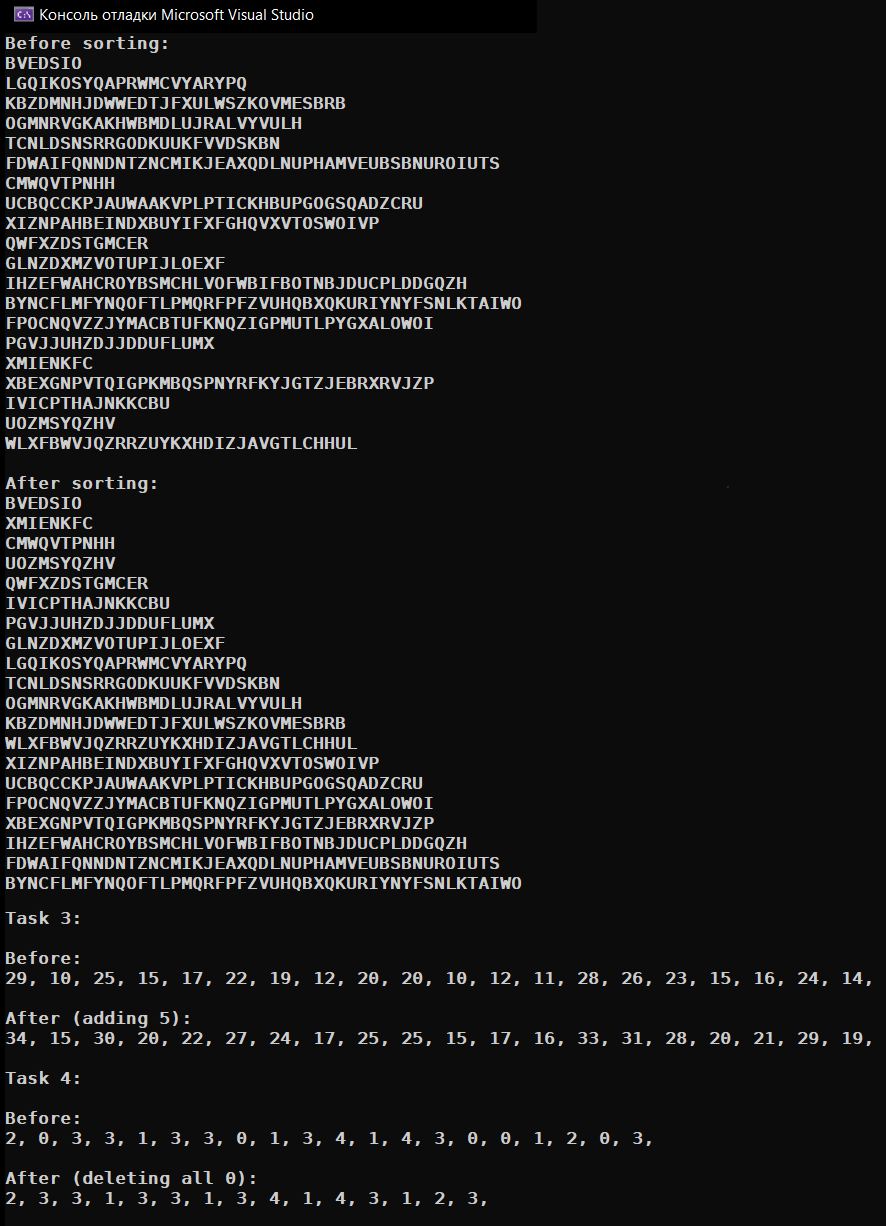
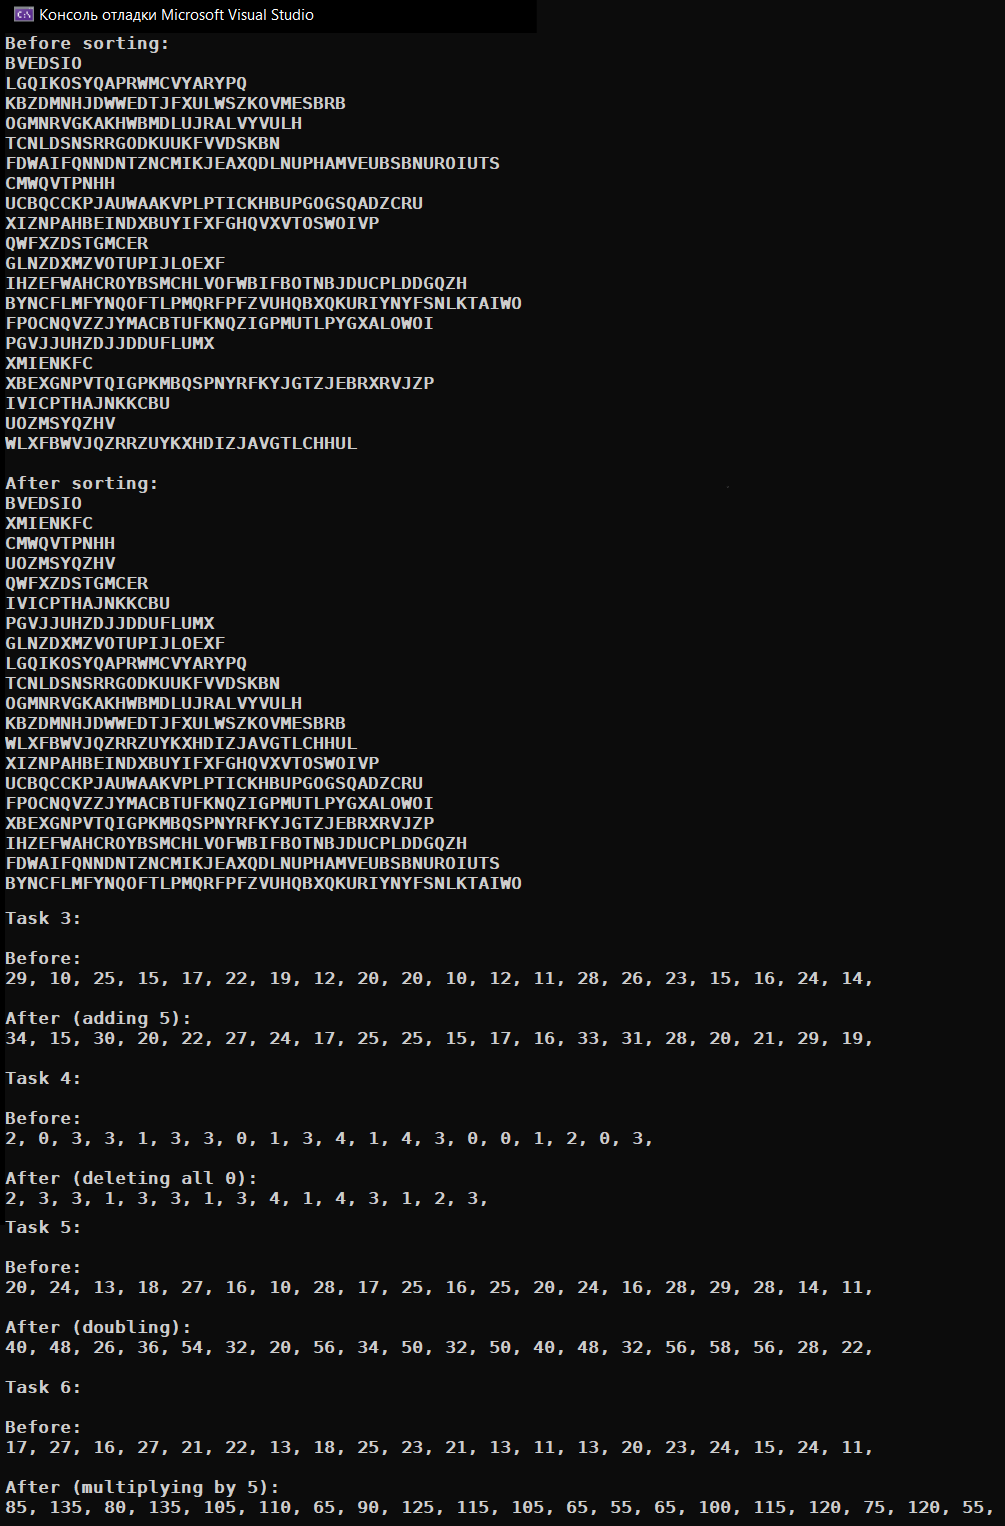
+ Doubler, + Multiplier

diff --git a/main/main.cpp b/main/main.cpp
@@ -35,6 +35,26 @@ public:
 	}
 };
 
+class Doubler
+{
+public:
+	void operator()(int& elem)
+	{
+		elem *= 2;
+	}
+};
+
+class Multiplier
+{
+	int number;
+public:
+	Multiplier(int number) : number(number) {}
+	void operator()(int& elem)
+	{
+		elem *= number;
+	}
+};
+
 int main()
 {
 	srand(time(0));
@@ -146,6 +166,46 @@ int main()
 	std::cout << "\n\nAfter (deleting all " << num << "):\n";
 
 	for (auto& elem : vec4)
+		std::cout << elem << ", ";
+	std::cout << "\n";
+
+	std::cout << "\nTask 5:\n\n";
+
+	std::vector<int> vec5;
+
+	for (int i = 0; i < 20; i++)
+		vec5.push_back(rand() % 20 + 10);
+
+	std::cout << "Before:\n";
+
+	for (auto& elem : vec5)
+		std::cout << elem << ", ";
+
+	std::for_each(vec5.begin(), vec5.end(), Doubler());
+
+	std::cout << "\n\nAfter (doubling):\n";
+
+	for (auto& elem : vec5)
+		std::cout << elem << ", ";
+	std::cout << "\n";
+
+	std::cout << "\nTask 6:\n\n";
+
+	std::vector<int> vec6;
+
+	for (int i = 0; i < 20; i++)
+		vec6.push_back(rand() % 20 + 10);
+
+	std::cout << "Before:\n";
+
+	for (auto& elem : vec6)
+		std::cout << elem << ", ";
+
+	std::for_each(vec6.begin(), vec6.end(), Multiplier(5));
+
+	std::cout << "\n\nAfter (multiplying by 5):\n";
+
+	for (auto& elem : vec6)
 		std::cout << elem << ", ";
 	std::cout << "\n";
 }
